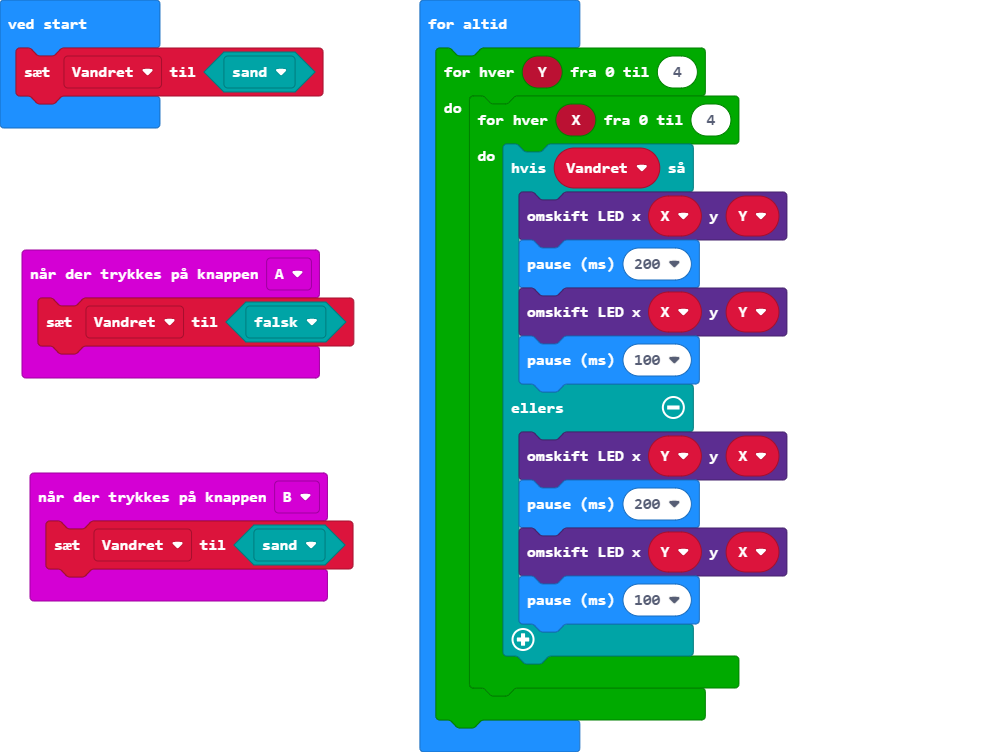
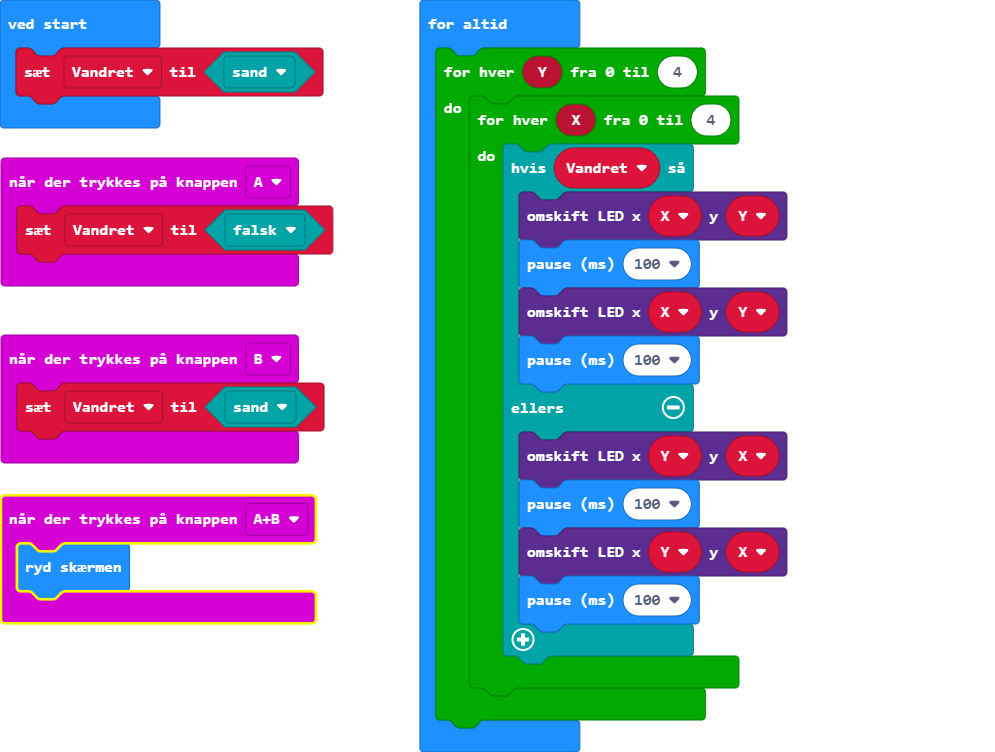
Update main.blocks, main.ts

Changed region(s): [[0.0, 0.1835, 0.3739, 0.8564]]

diff --git a/main.ts b/main.ts
@@ -1,6 +1,9 @@
 input.onButtonPressed(Button.A, function () {
     Vandret = false
 })
+input.onButtonPressed(Button.AB, function () {
+    basic.clearScreen()
+})
 input.onButtonPressed(Button.B, function () {
     Vandret = true
 })
@@ -11,12 +14,12 @@ basic.forever(function () {
         for (let X = 0; X <= 4; X++) {
             if (Vandret) {
                 led.toggle(X, Y)
-                basic.pause(200)
+                basic.pause(100)
                 led.toggle(X, Y)
                 basic.pause(100)
             } else {
                 led.toggle(Y, X)
-                basic.pause(200)
+                basic.pause(100)
                 led.toggle(Y, X)
                 basic.pause(100)
             }
